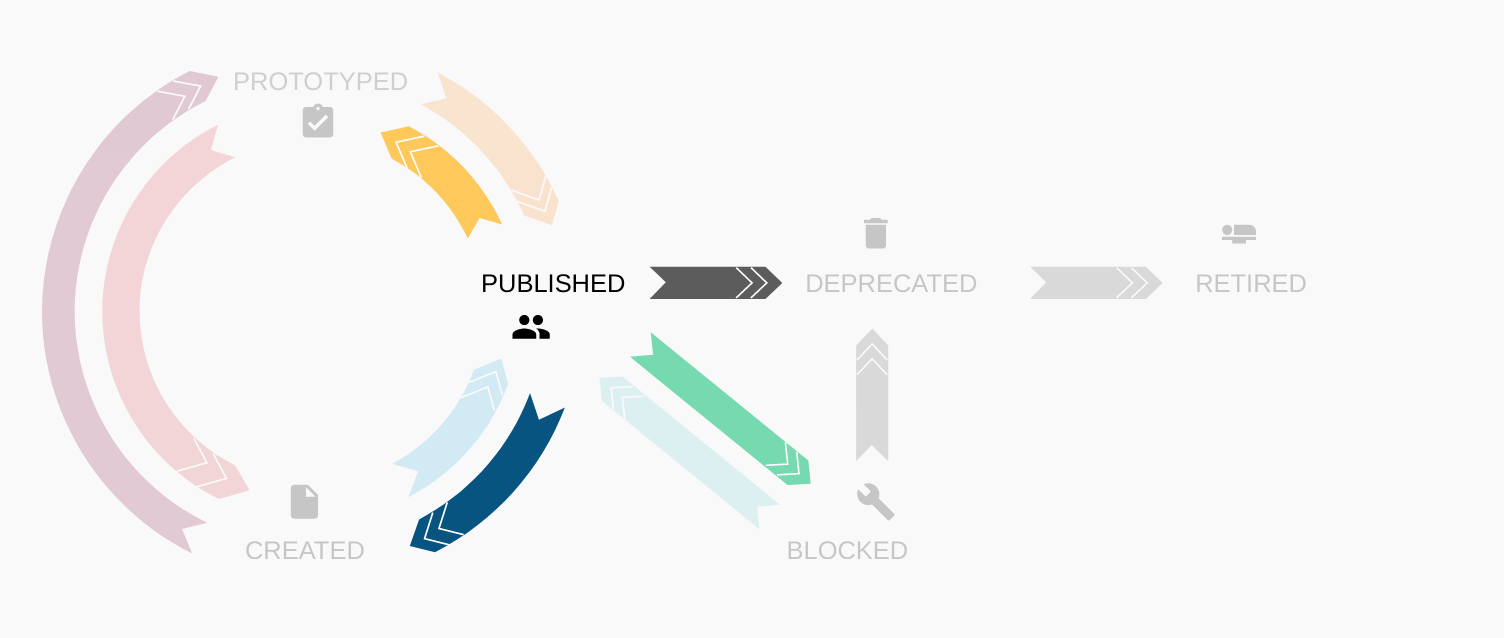
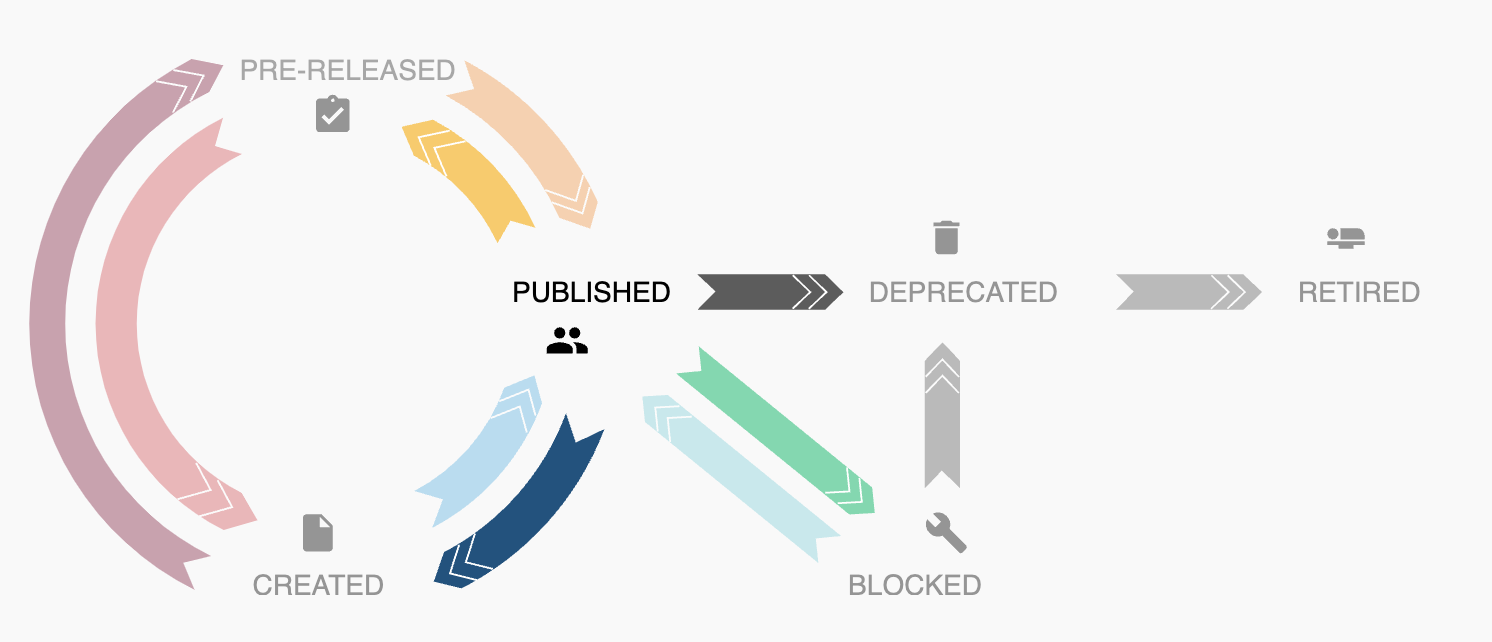
Fix outdated docs

diff --git a/en/docs/design/api-security/oauth2/grant-types/jwt-grant.md b/en/docs/design/api-security/oauth2/grant-types/jwt-grant.md
@@ -152,15 +152,6 @@ Now you have a registered identity provider and as well as a service provider wi
         
            You can use the JWT that we obtained at the end of [Step 1](#step-1-obtain-a-jwt-from-an-external-identity-provider) here). The value of the assertion parameter **MUST** contain a **single JWT.** For more information on assertion, see [JWT Bearer Grant](#jwt-bearer-grant).
 
-    !!! info
-        If you have configured the service provider and identity provider in a tenant, you have to add the tenant domain as a query parameter to the access token endpoint.
-
-        If the tenant domain is `wso2.com`, the access token endpoint will be as follows:
-
-        ``` java
-        Access Token Endpoint: https://localhost:9443/oauth2/token?tenantDomain=wso2.com
-        ```
-
     You would now have received the response from the token endpoint of WSO2 API-M. The response would contain the access token, refresh token, expiry time, scope and token type.
 
     **Sample response**

diff --git a/en/docs/design/lifecycle-management/customize-api-life-cycle.md b/en/docs/design/lifecycle-management/customize-api-life-cycle.md
@@ -161,7 +161,7 @@ Follow the steps below to add a new state to the default life cycle.
         Consider the following points when extending and customizing the API lifecycle JSON configuration.
 
         -   Do not change the life cycle name since it needs to be engaged with the APIs dynamically.
-        -   Make sure you keep the **PUBLISHED** and **PROTOTYPED** states as those two states will be used by API Publisher in the API creation wizard.
+        -   Make sure you keep the **PUBLISHED** and **PRE-RELEASED** states as those two states will be used by API Publisher in the API creation wizard.
 
     !!! info
         By default following lifecycle diagram is added in Publisher portal to show the state changes.

diff --git a/en/docs/design/api-security/oauth2/grant-types/client-credentials-grant.md b/en/docs/design/api-security/oauth2/grant-types/client-credentials-grant.md
@@ -75,7 +75,7 @@ Use either one of the following sample cURL commands for this purpose.
 < Content-Type: application/json
 < Date: Thu, 18 Jan 2018 12:54:32 GMT
 < Transfer-Encoding: chunked
-{"access_token":"4c27f899-6f9c-3217-b974-3ceb5a409ac3","scope":"am_application_scope default","token_type":"Bearer","expires_in":723}
+{"access_token":"eyJhbGciOiJIUzI1NiIsInR5cCI6IkpXVCJ9...","scope":"am_application_scope default","token_type":"Bearer","expires_in":723}
 ```
 
 #### Obtain the access token by specifying a scope

diff --git a/en/docs/design/api-security/oauth2/grant-types/password-grant.md b/en/docs/design/api-security/oauth2/grant-types/password-grant.md
@@ -103,7 +103,7 @@ If you have multiple Carbon servers running on the same computer, [change the po
             "token_type":"Bearer",
             "expires_in":3600,
             "refresh_token":"ca5a51f18b2edf4eaa9e4b871e42b58a",
-            "access_token":"f2c66f146278aaaf6513b585b5b68d1d"
+            "access_token":"eyJhbGciOiJIUzI1NiIsInR5cCI6IkpXVCJ9..."
         }
     ```
 
